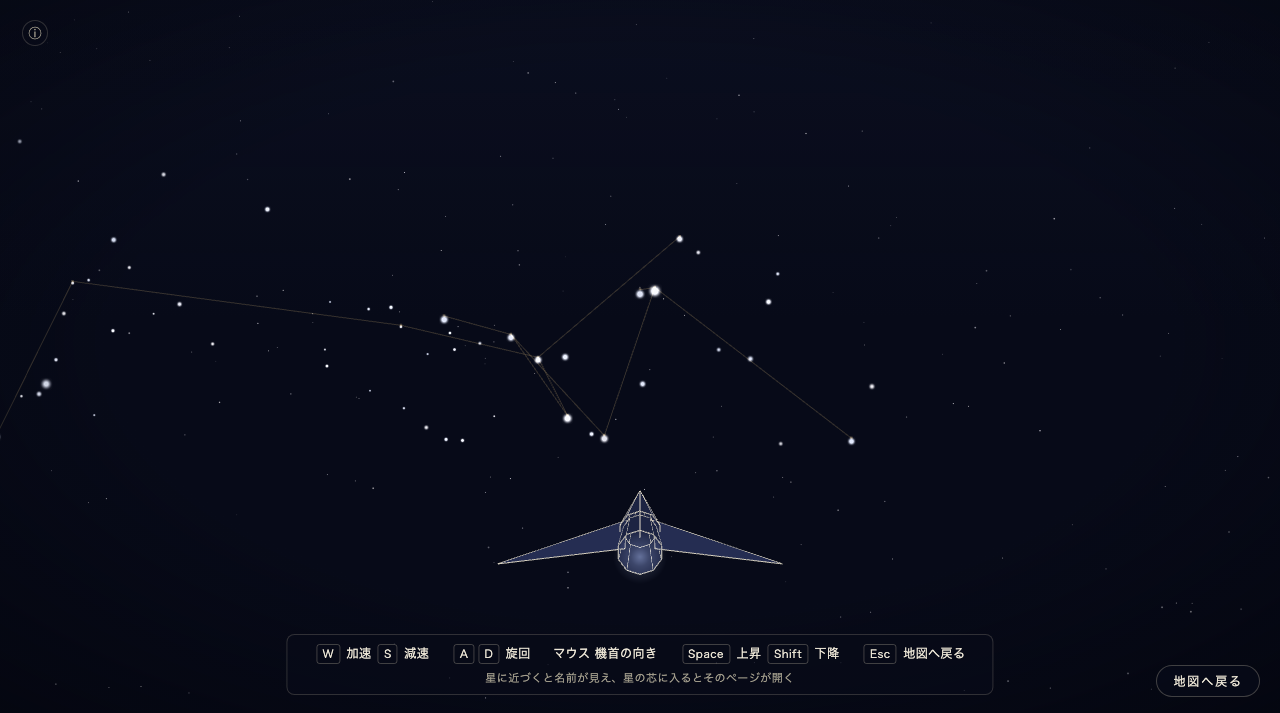
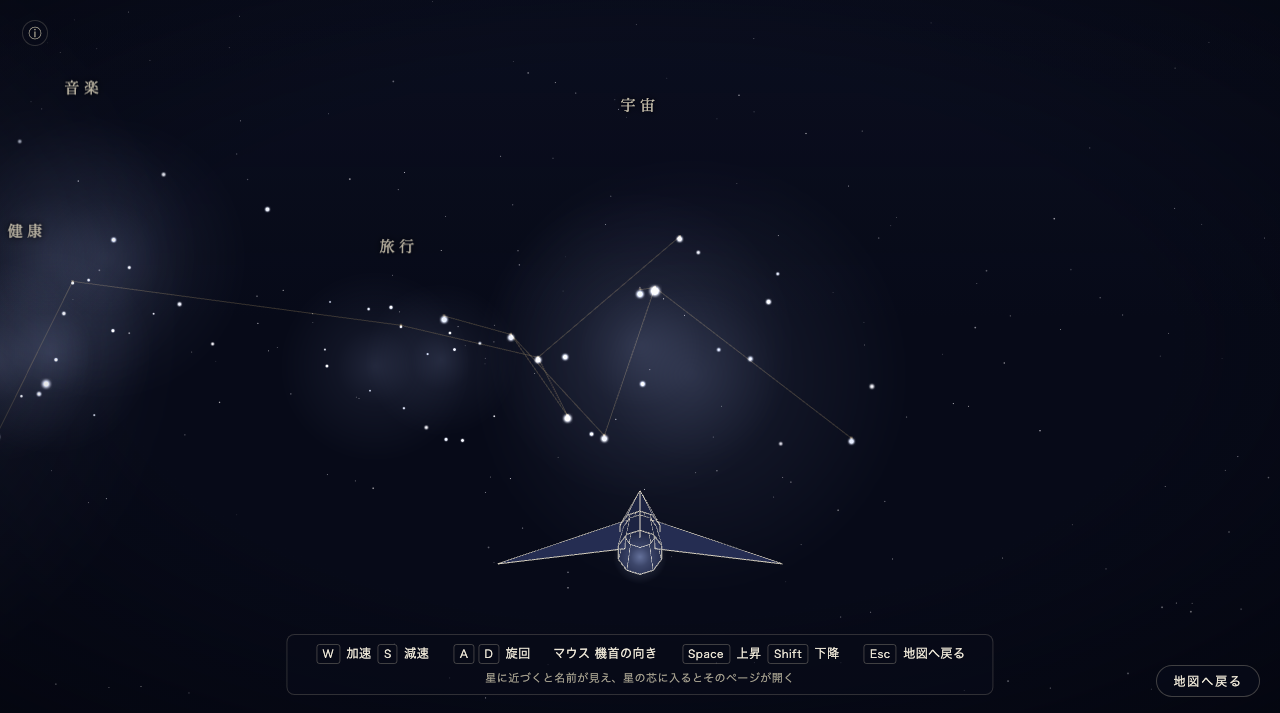
feat(flight): add indigo nebula clouds and cluster name signs that fade up close

diff --git a/src/render/scene.ts b/src/render/scene.ts
@@ -7,8 +7,8 @@ import { Nebulae } from "./nebula";
 import { FLIGHT_MAX_POINT, FLIGHT_SIZE_SCALE, MAP_MAX_POINT, StarField, createBackdrop, nebulaColor, type EmphasisMode, type RenderStar } from "./stars";
 import { FLIGHT_SCALE, Flight, type FlightInput } from "./flight";
 import { createShip } from "./ship";
-import { FlightSky } from "./sky";
-import { FlightWindows, WINDOW_RADIUS, type WindowStar } from "../ui/flight-windows";
+import { FlightNebulae, FlightSky } from "./sky";
+import { FlightSigns, FlightWindows, WINDOW_RADIUS, type WindowStar } from "../ui/flight-windows";
 import { flightHeights } from "../layout/lift";
 import { ConstellationLayer, type DrawnConstellation } from "./constellations";
 import type { ConstellationPoint } from "../constellation";
@@ -107,6 +107,8 @@ export class SpaceView {
   private readonly flightLook = new THREE.Vector3();
   private readonly ship = createShip();
   private readonly sky = new FlightSky();
+  private readonly flightNebulae = new FlightNebulae();
+  private readonly signs = new FlightSigns(document.getElementById("flight-signs") ?? document.body);
   private readonly windows = new FlightWindows(document.getElementById("flight-windows") ?? document.body);
   private windowStars: WindowStar[] = [];
   /** 星に入る演出の途中。終わるとページを開き、宇宙船を押し戻す */
@@ -255,6 +257,7 @@ export class SpaceView {
     addEventListener("resize", this.resize);
     this.scene.add(this.ship.group);
     this.scene.add(this.sky.object);
+    this.scene.add(this.flightNebulae.object);
     window.addEventListener("mousemove", (event: MouseEvent) => {
       if (!this.flight.active) return;
       this.flightMouse.set(event.clientX / innerWidth * 2 - 1, event.clientY / innerHeight * 2 - 1);
@@ -320,6 +323,7 @@ export class SpaceView {
     // 飛行モードの高さ。配置が変わるたびに取り直す（地図の座標は変えない）
     this.heights = flightHeights(layout);
     this.field.setHeights(this.heights);
+    this.placeFlightClusters(layout, source);
     this.field.setLift(this.flight.lift);
     if (this.flight.active) frame = false;   // 飛行中はカメラを宇宙船が持っている
     this.nebulae.set(
@@ -509,6 +513,7 @@ export class SpaceView {
     this.ship.group.visible = true;
     // 地図の遠景は広げた空間では近づけてしまうので、飛行中は触れられない背景の星空に替える
     this.sky.object.visible = true;
+    this.flightNebulae.object.visible = true;
     this.backdrop.visible = false;
     this.onFlightChange?.(true);
     return true;
@@ -533,8 +538,10 @@ export class SpaceView {
     this.nebulae.object.visible = true;
     this.ship.group.visible = false;
     this.sky.object.visible = false;
+    this.flightNebulae.object.visible = false;
     this.backdrop.visible = true;
     this.windows.clear();
+    this.signs.clear();
     this.constellations.setFlight(false);
     this.setFlightMaterial(false);
     const ids = this.flightSearch ?? [];
@@ -557,6 +564,25 @@ export class SpaceView {
     mat.uniforms.uMaxSize.value = on ? FLIGHT_MAX_POINT : MAP_MAX_POINT;
     mat.uniforms.uFlight.value = on ? 1 : 0;
     mat.uniforms.uSizeScale.value = on ? FLIGHT_SIZE_SCALE : 1;
+  }
+
+  /** 飛行中の星雲の雲と星団名の標識を、星団ごとに置く（中心の高さはメンバーの高さの平均。広げた空間の座標） */
+  private placeFlightClusters(layout: Layout, source: LabelSource): void {
+    const sums = new Map<number, { h: number; n: number }>();
+    for (const star of layout.stars) {
+      const row = sums.get(star.cluster) ?? { h: 0, n: 0 };
+      row.h += this.heights.get(star.id) ?? 0;
+      row.n++;
+      sums.set(star.cluster, row);
+    }
+    const live = source.clusters.filter((c) => c.count > 0);
+    const at = (c: (typeof live)[number]) => {
+      const row = sums.get(c.index);
+      const h = row && row.n ? row.h / row.n : 0;
+      return { x: c.x * FLIGHT_SCALE, y: h * FLIGHT_SCALE, z: -c.y * FLIGHT_SCALE, radius: c.radius * FLIGHT_SCALE };
+    };
+    this.flightNebulae.set(live.map((c) => ({ index: c.index, ...at(c), color: nebulaColor(c.index) })));
+    this.signs.set(live.map((c) => ({ index: c.index, name: c.name, ...at(c) })));
   }
 
   /** いまの空間の拡大率（地図 1 → 飛行中 FLIGHT_SCALE。立ち上がりと一緒に変わる） */
@@ -601,12 +627,12 @@ export class SpaceView {
     return q ? this.flight.ship.position.distanceTo(q) : null;
   }
 
-  flightState(): { active: boolean; phase: string; transitioning: boolean; lift: number; nearby: number; windows: string[];
+  flightState(): { active: boolean; phase: string; transitioning: boolean; lift: number; nearby: number; windows: string[]; nebulae: number;
     diving: boolean; lastEntry: string | null; entryDistance: number | null; scale: number;
     ship: { x: number; y: number; z: number; speed: number; yaw: number; pitch: number } } {
     const ship = this.flight.ship;
     return { active: this.flight.active, phase: this.flight.phase, transitioning: this.flight.transitioning,
-      lift: this.flight.lift, nearby: this.windows.nearby, windows: this.windows.visibleIds,
+      lift: this.flight.lift, nearby: this.windows.nearby, windows: this.windows.visibleIds, nebulae: this.flightNebulae.count,
       diving: !!this.dive, lastEntry: this.lastEntry, entryDistance: this.entryDistance(),
       scale: FLIGHT_SCALE,
       // 宇宙船の位置は地図の座標（広げた空間の座標を FLIGHT_SCALE で割ったもの）で返す
@@ -1041,6 +1067,7 @@ export class SpaceView {
     this.field.object.scale.setScalar(this.spaceScale);
     this.constellations.object.scale.setScalar(this.spaceScale);
     this.sky.follow(this.camera);
+    this.flightNebulae.setOpacity(this.flight.lift);
     if (this.flight.transitioning || finished) {
       // 立ち上がりの途中だけ、星座の線の高さを書き直す（飛んでいる間は変わらない）
       this.constellations.setLift((id) => this.heights.get(id) ?? 0, this.flight.lift);
@@ -1059,6 +1086,7 @@ export class SpaceView {
     this.camera.updateMatrixWorld();
     if (this.flight.phase === "flying") this.updateWindows(dt);
     else if (this.flight.phase === "leaving") this.windows.clear();
+    this.updateSigns();
     this.field.setLift(this.flight.lift);
     this.field.update(dt);
     this.constellations.update(dt);
@@ -1111,6 +1139,22 @@ export class SpaceView {
     this.flight.ship.position.addScaledVector(this.flight.forward(), -PUSH_BACK);
     this.flight.ship.speed = 0;
     this.onEnterStar?.(dive.id);
+  }
+
+  /** 星団名の標識：星雲の雲の上端の少し上。近づくと薄く、立ち上がりと一緒に現れる。 */
+  private updateSigns(): void {
+    const size = this.renderer.getSize(new THREE.Vector2());
+    const v = new THREE.Vector3();
+    const ship = this.flight.ship.position;
+    this.signs.update(
+      (x, y, z) => {
+        v.set(x, y, z).project(this.camera);
+        if (v.z > 1 || v.z < -1) return null;
+        return { x: (v.x * 0.5 + 0.5) * size.x, y: (-v.y * 0.5 + 0.5) * size.y };
+      },
+      (spec) => Math.hypot(spec.x - ship.x, spec.y - ship.y, spec.z - ship.z),
+      this.flight.phase === "leaving" ? 0 : this.flight.lift,
+    );
   }
 
   /** 近づいた星の窓（近い順に最大 6 個）。選ぶのは間引き、位置は毎コマ。 */

diff --git a/src/render/sky.ts b/src/render/sky.ts
@@ -66,3 +66,61 @@ export class FlightSky {
     for (const { points, follow } of this.layers) points.position.copy(camera.position).multiplyScalar(follow);
   }
 }
+
+/**
+ * 飛行中の星雲（SPEC 13 章・`docs/DESIGN.md`）：星団ごとに、淡い藍の雲を立体の星の雲に重ねる。
+ * 柔らかい光の板（Sprite）を星団ごとに 2 枚、星団の中心のまわりに少しずつずらして置く（位置は星団の番号から決まる）。
+ * 枚数と大きさは、塗る面積（重さ）を抑える上限。2000 件（20 星団）で 4 枚にすると 60 コマを割った。
+ * 色は `nebulaColor`（藍の 1 色相、明度だけ星団ごとに違う）。
+ */
+export type CloudSpec = { index: number; x: number; y: number; z: number; radius: number; color: THREE.Color };
+
+export class FlightNebulae {
+  readonly object = new THREE.Group();
+  private readonly texture: THREE.Texture;
+  private sprites: THREE.Sprite[] = [];
+  count = 0;
+
+  constructor() {
+    const canvas = document.createElement("canvas");
+    canvas.width = canvas.height = 128;
+    const ctx = canvas.getContext("2d");
+    if (ctx) {
+      const g = ctx.createRadialGradient(64, 64, 0, 64, 64, 64);
+      g.addColorStop(0, "rgba(255,255,255,0.9)");
+      g.addColorStop(0.4, "rgba(255,255,255,0.35)");
+      g.addColorStop(1, "rgba(255,255,255,0)");
+      ctx.fillStyle = g;
+      ctx.fillRect(0, 0, 128, 128);
+    }
+    this.texture = new THREE.CanvasTexture(canvas);
+    this.object.visible = false;
+  }
+
+  /** 星団の雲を置き直す（位置は広げた空間の座標）。 */
+  set(clouds: CloudSpec[]): void {
+    for (const sprite of this.sprites) {
+      this.object.remove(sprite);
+      (sprite.material as THREE.Material).dispose();
+    }
+    this.sprites = [];
+    for (const c of clouds) {
+      for (let k = 0; k < 2; k++) {
+        const a = c.index * 2.39 + k * 2.6;
+        const sprite = new THREE.Sprite(new THREE.SpriteMaterial({ map: this.texture, color: c.color, transparent: true,
+          opacity: 0.2, blending: THREE.AdditiveBlending, depthWrite: false }));
+        sprite.position.set(c.x + Math.cos(a) * c.radius * 0.35, c.y + Math.sin(a * 1.3) * c.radius * 0.2,
+          c.z + Math.sin(a) * c.radius * 0.35);
+        sprite.scale.setScalar(c.radius * (1.35 + 0.2 * ((k + c.index) % 3)));
+        this.sprites.push(sprite);
+        this.object.add(sprite);
+      }
+    }
+    this.count = clouds.length;
+  }
+
+  /** 立ち上がりに合わせて現れる（0〜1） */
+  setOpacity(level: number): void {
+    for (const sprite of this.sprites) (sprite.material as THREE.SpriteMaterial).opacity = 0.2 * level;
+  }
+}

diff --git a/src/ui/flight-windows.ts b/src/ui/flight-windows.ts
@@ -130,3 +130,49 @@ export class FlightWindows {
     return el;
   }
 }
+
+/**
+ * 飛行中の星団名（SPEC 13 章）：遠くからも標識のように見え、近づいたら薄くなる。明朝（`docs/DESIGN.md`）。
+ * 位置は毎コマ transform で動かす（星雲の雲の上端の少し上）。
+ */
+export type SignSpec = { index: number; name: string; x: number; y: number; z: number; radius: number };
+
+export class FlightSigns {
+  private signs: { spec: SignSpec; el: HTMLDivElement }[] = [];
+
+  constructor(private readonly container: HTMLElement) {}
+
+  set(specs: SignSpec[]): void {
+    for (const { el } of this.signs) el.remove();
+    this.signs = specs.map((spec) => {
+      const el = document.createElement("div");
+      el.className = "flight-sign";
+      el.dataset.cluster = String(spec.index);
+      el.textContent = spec.name;
+      el.style.opacity = "0";
+      this.container.appendChild(el);
+      return { spec, el };
+    });
+  }
+
+  /**
+   * project で画面の位置（写らなければ null）、distanceOf で宇宙船から星団の中心までの距離を得る。
+   * 星団の半径より外では 0.85、中へ入るほど 0.12 まで薄くなる。
+   */
+  update(project: (x: number, y: number, z: number) => { x: number; y: number } | null,
+    distanceOf: (spec: SignSpec) => number, level: number): void {
+    for (const { spec, el } of this.signs) {
+      const at = project(spec.x, spec.y + spec.radius * 0.9, spec.z);
+      if (!at || level <= 0) { el.style.display = "none"; continue; }
+      const d = distanceOf(spec);
+      const inside = Math.min(1, Math.max(0, (d - spec.radius * 0.4) / (spec.radius * 1.2)));
+      el.style.display = "";
+      el.style.opacity = String((0.12 + 0.73 * inside) * level);
+      el.style.transform = `translate3d(${at.x.toFixed(1)}px, ${at.y.toFixed(1)}px, 0) translate(-50%, -100%)`;
+    }
+  }
+
+  clear(): void {
+    for (const { el } of this.signs) el.style.display = "none";
+  }
+}

diff --git a/index.html b/index.html
@@ -229,6 +229,14 @@
       body.is-flying #flight-help { display: block; }
       /* 近づいた星の窓：アイコン・タイトル・ドメイン（位置は毎コマ transform で動かす） */
       #flight-windows { position: fixed; inset: 0; pointer-events: none; overflow: hidden; display: none; }
+      /* 飛行中の星団名：遠くからも標識のように。明朝・広い字間（近づくと薄くなる） */
+      #flight-signs { position: fixed; inset: 0; pointer-events: none; overflow: hidden; display: none; }
+      body.is-flying #flight-signs { display: block; }
+      .flight-sign {
+        position: absolute; top: 0; left: 0; white-space: nowrap; will-change: transform, opacity;
+        font-family: var(--font-name); font-size: 15px; letter-spacing: 0.3em; color: rgba(234, 224, 198, 0.95);
+        text-shadow: 0 0 3px rgba(4, 6, 16, 1), 0 0 10px rgba(4, 6, 16, 0.8);
+      }
       /* 星に入る瞬間の、淡い光（白に近いクリーム。中心から満ちる） */
       #flight-flash {
         position: fixed; inset: 0; pointer-events: none; opacity: 0; z-index: 4;
@@ -391,6 +399,7 @@
     <canvas id="space"></canvas>
     <div id="vignette"></div>
     <div id="labels"></div>
+    <div id="flight-signs"></div>
     <div id="flight-windows"></div>
     <div id="flight-flash"></div>
     <div id="search-box">

diff --git a/docs/HANDOFF.md b/docs/HANDOFF.md
@@ -104,7 +104,7 @@
 | 小段階 | 状態 | 内容 |
 |---|---|---|
 | A. 空間を広くする | **完了** | 飛行の空間を地図の 4 倍（`FLIGHT_SCALE`）に。速さ・窓・芯を合わせ、遠くに触れられない背景の星空 |
-| B. 星雲と星団名 | 未着手 | 星団ごとの淡い藍の星雲の雲、遠くから標識のように見える星団名（近づくと薄く） |
+| B. 星雲と星団名 | **完了** | 星団ごとの淡い藍の星雲の雲、遠くから標識のように見える星団名（近づくと薄く） |
 | C. 星の色と明るさ | 未着手 | 「最後に触れた日」で色（青白 → 橙）と明るさ。`setAppearance` を使う。地図と飛行の両方 |
 | D. favicon が無いとき | 未着手 | 既定のアイコン（地球儀）を判定し、ドメインの頭文字の紋章に替える |
 | E. 操作の説明 | 未着手 | 入って約 10 秒で薄く小さくし、窓や星に重ならないように |
@@ -120,6 +120,15 @@
   ついて来させる（近づけず、少しずつ流れて見える）。飛行中は地図の遠景（近づけてしまう）を隠して、こちらに替える。
 - 確認：x・y・z が地図の座標の 4 倍と一致（実装前は倍率 1 で NG）。瞬間移動の距離は倍率に合わせた。
   `flightState()` の `ship` は地図の座標、`scale` は倍率。
+
+**B で入れたもの**
+- 星雲の雲 `FlightNebulae`（`src/render/sky.ts`）：星団ごとに柔らかい光の板（Sprite）2 枚。中心はメンバーの高さの平均、
+  大きさは星団の半径の 1.35〜1.75 倍、色は `nebulaColor`（藍の 1 色相、明度だけ違う）、不透明度 0.2 × 立ち上がり。
+  **4 枚にすると 2000 件（20 星団）で 40 コマに落ちた**（大きな半透明の板の塗る面積が重い）。枚数と大きさはこの上限。
+- 星団名の標識 `FlightSigns`（`src/ui/flight-windows.ts`、`#flight-signs`）：明朝・字間 0.3em。星雲の上端の少し上に、
+  毎コマ transform で置く。星団の半径より外では 0.85、中へ入るほど 0.12 まで薄くなる。
+- 確認「飛行中、星団ごとに淡い星雲の雲と星団名の標識があり、星団の中ではその標識が薄くなる」（実装前 NG を確認）。
+  `flightState()` に `nebulae`（雲の数）。
 
 ### 残りのタスク（優先順・2026-09-26 に組み直し）
 
